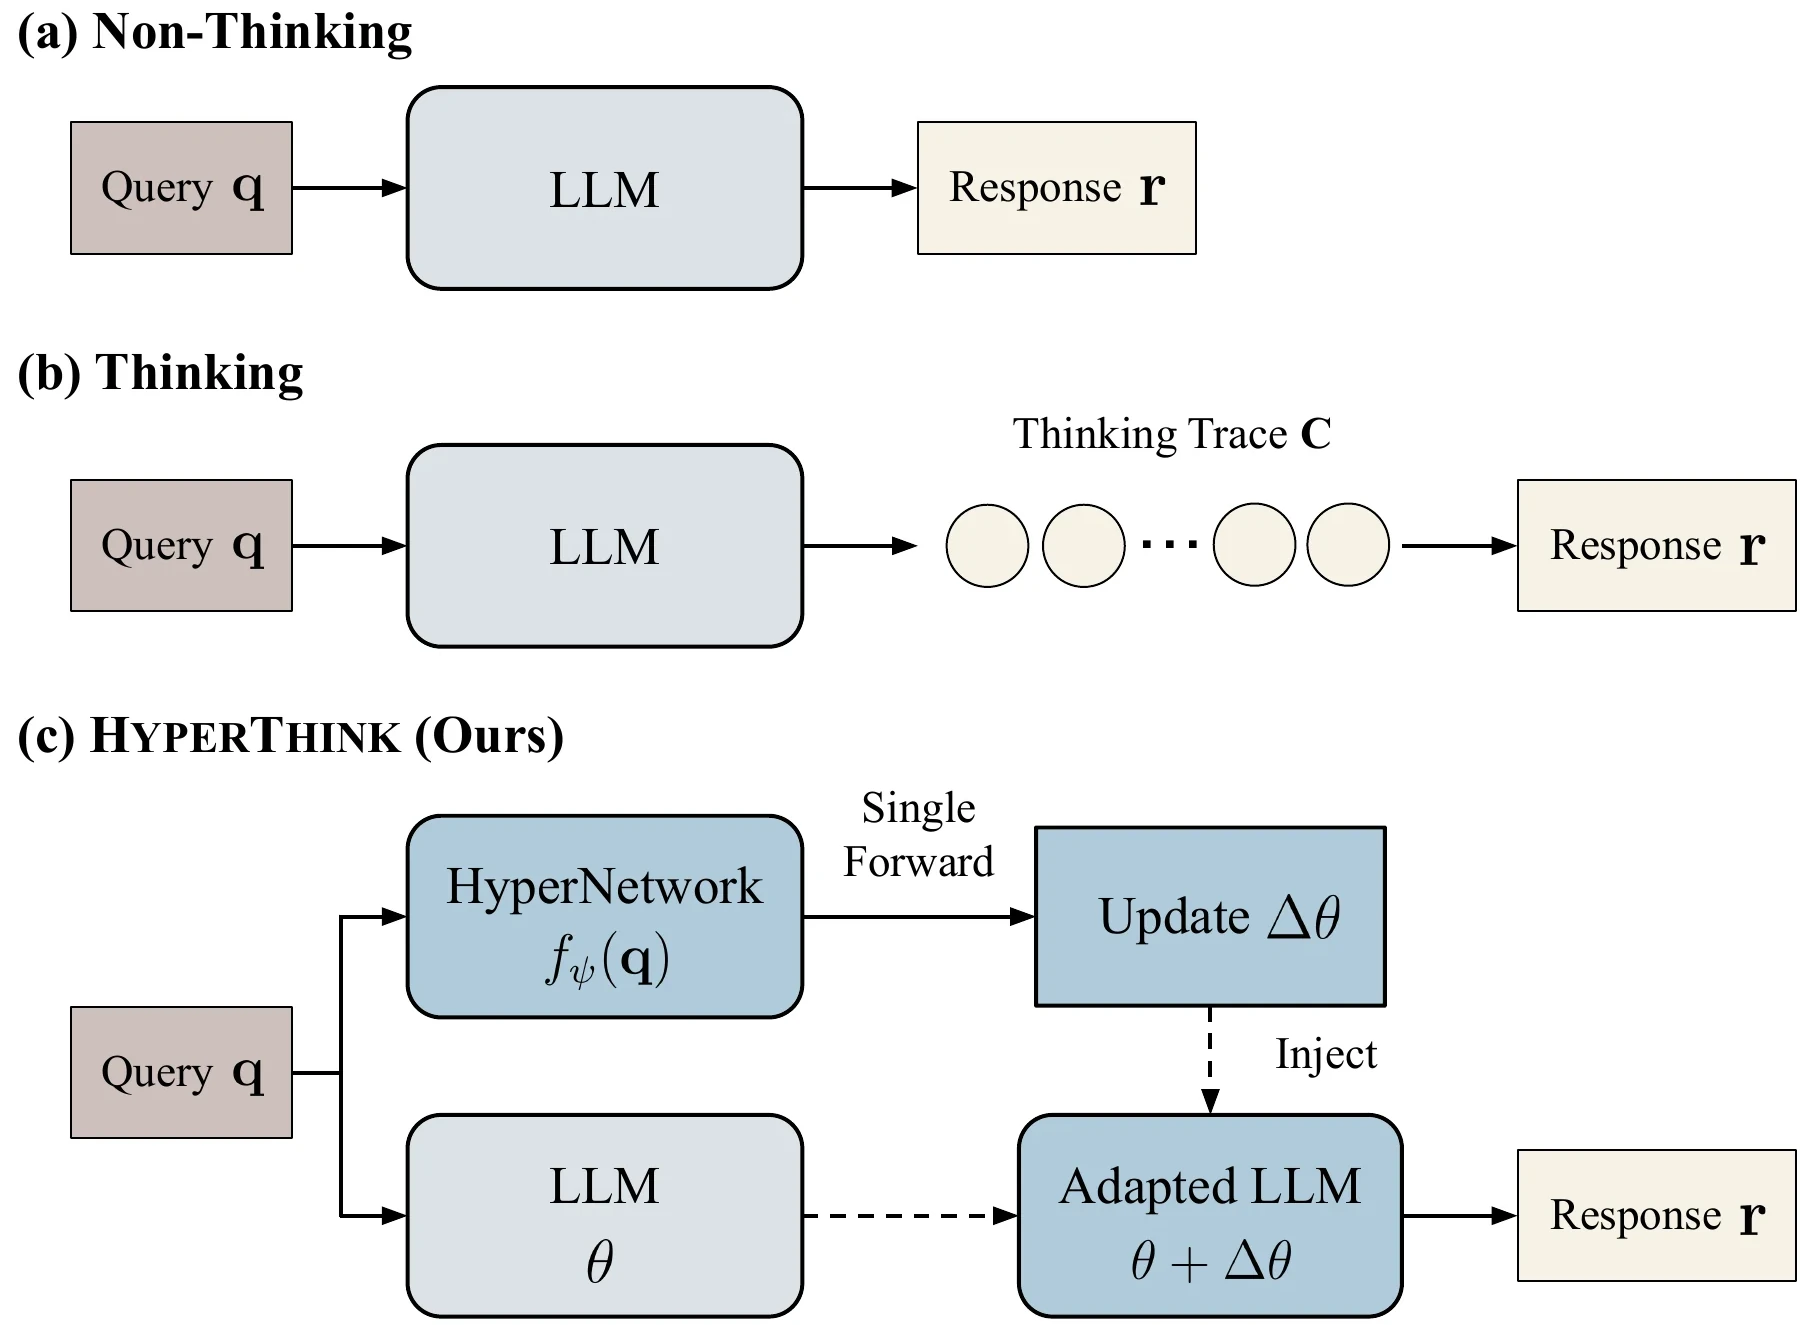
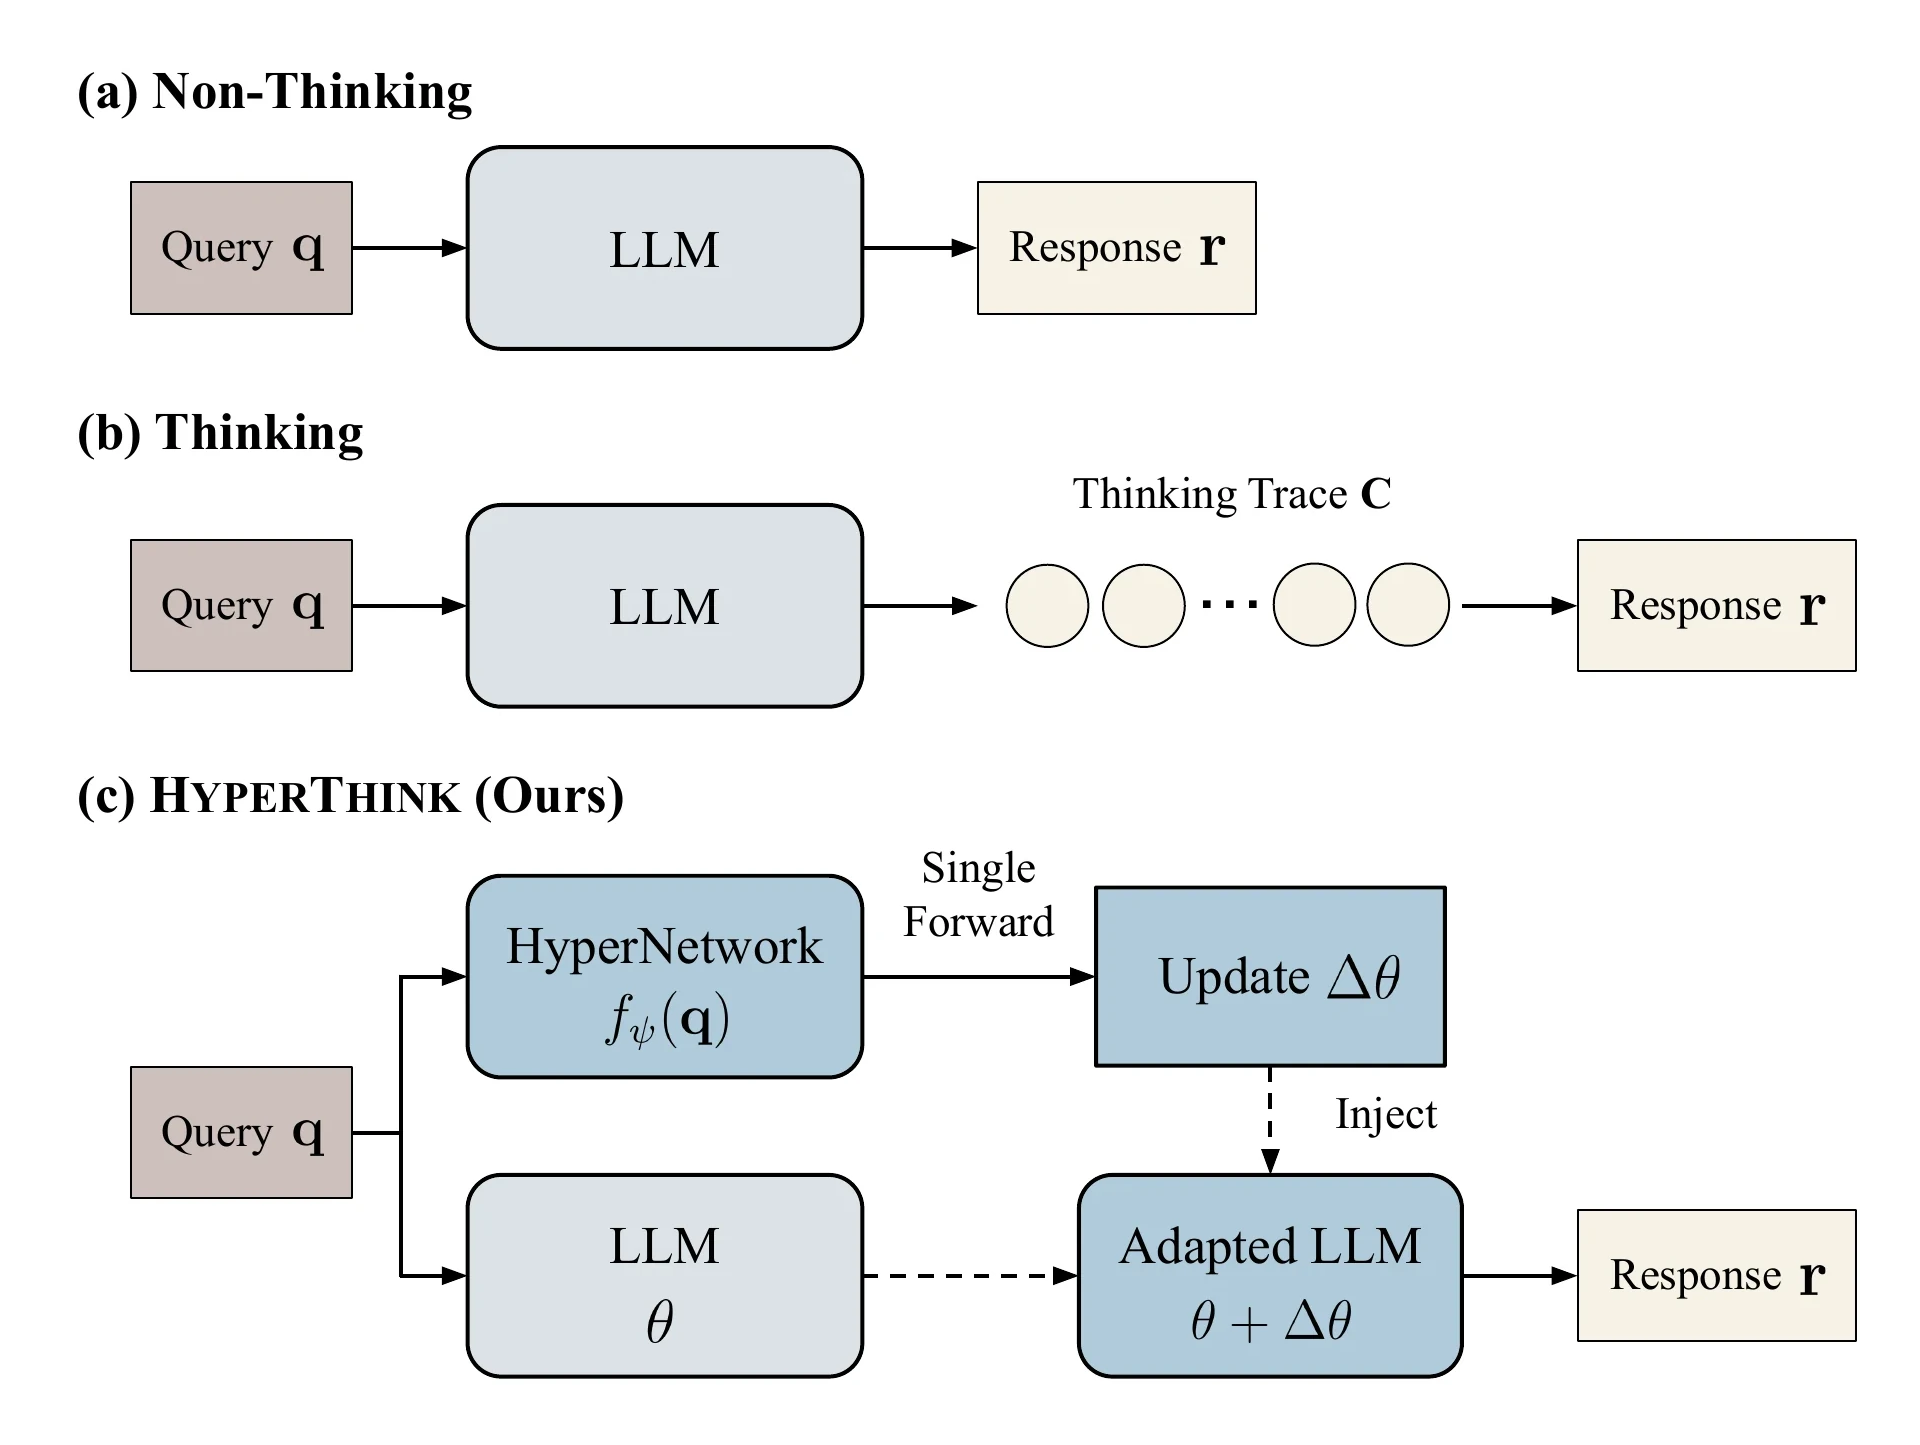
update

diff --git a/README.md b/README.md
@@ -263,9 +263,31 @@ python -m evaluation.print_accuracy --model Qwen/Qwen3-0.6B --task gsm8k-test
 
 Use `--sm3b` or `--om7b` for the other models. Checkpoint-specific examples are
 in `scripts/eval/eval_{qwen,smollm,olmo}_{math,extended}.sh`; these are one-worker
-commands, so launch them with the intended GPU/shard configuration. For example,
-the supplied SmolLM math checkpoint uses `--use_text_embedding True`, and the
-Olmo examples use `--vq_gumbel False --vq_soft False`.
+commands, so launch them with the intended GPU/shard configuration. Each line is one
+shard of an 8-shard run, so start each script once per GPU; run alone, a script scores
+only shard 0.
+
+```bash
+for i in 0 1 2 3 4 5 6 7; do
+  CUDA_VISIBLE_DEVICES=$i bash scripts/eval/eval_qwen_math.sh &
+done
+wait
+```
+
+For example, the supplied SmolLM math checkpoint uses `--use_text_embedding True`, and
+the Olmo examples use `--vq_gumbel False --vq_soft False`. Each checkpoint needs the
+flags below; a mismatch still loads, but gives different results.
+
+| Checkpoint | Model flag | Tasks | Extra flags |
+|---|---|---|---|
+| `qwen3-0.6b-math.ckpt` | | `gsm8k-test`, `math500` | |
+| `qwen3-0.6b-extended.ckpt` | | `aime_24_25` | `--thinking_budgets 2500` |
+| | | `commonsenseqa`, `bbh` | `--vq_gumbel False --vq_soft False` |
+| | | `livecodebench` | `--nothink_mode --temperature 0.2` |
+| `smollm3-3b-math.ckpt` | `--sm3b` | `gsm8k-test`, `math500` | `--use_text_embedding True` |
+| `smollm3-3b-extended.ckpt` | `--sm3b` | `aime_24_25`, `commonsenseqa`, `bbh`, `livecodebench` | |
+| `olmo3-7b-think-math.ckpt` | `--om7b` | `gsm8k-test`, `math500` | `--vq_gumbel False --vq_soft False` |
+| `olmo3-7b-think-extended.ckpt` | `--om7b` | `aime_24_25`, `commonsenseqa`, `bbh`, `livecodebench` | `--vq_gumbel False --vq_soft False` |
 
 HyperThink writes
 `<output_dir>/<MODEL_TAG>/<TEST_TASK>/hyperthink_shard_<id>_of_<count>.jsonl`.
